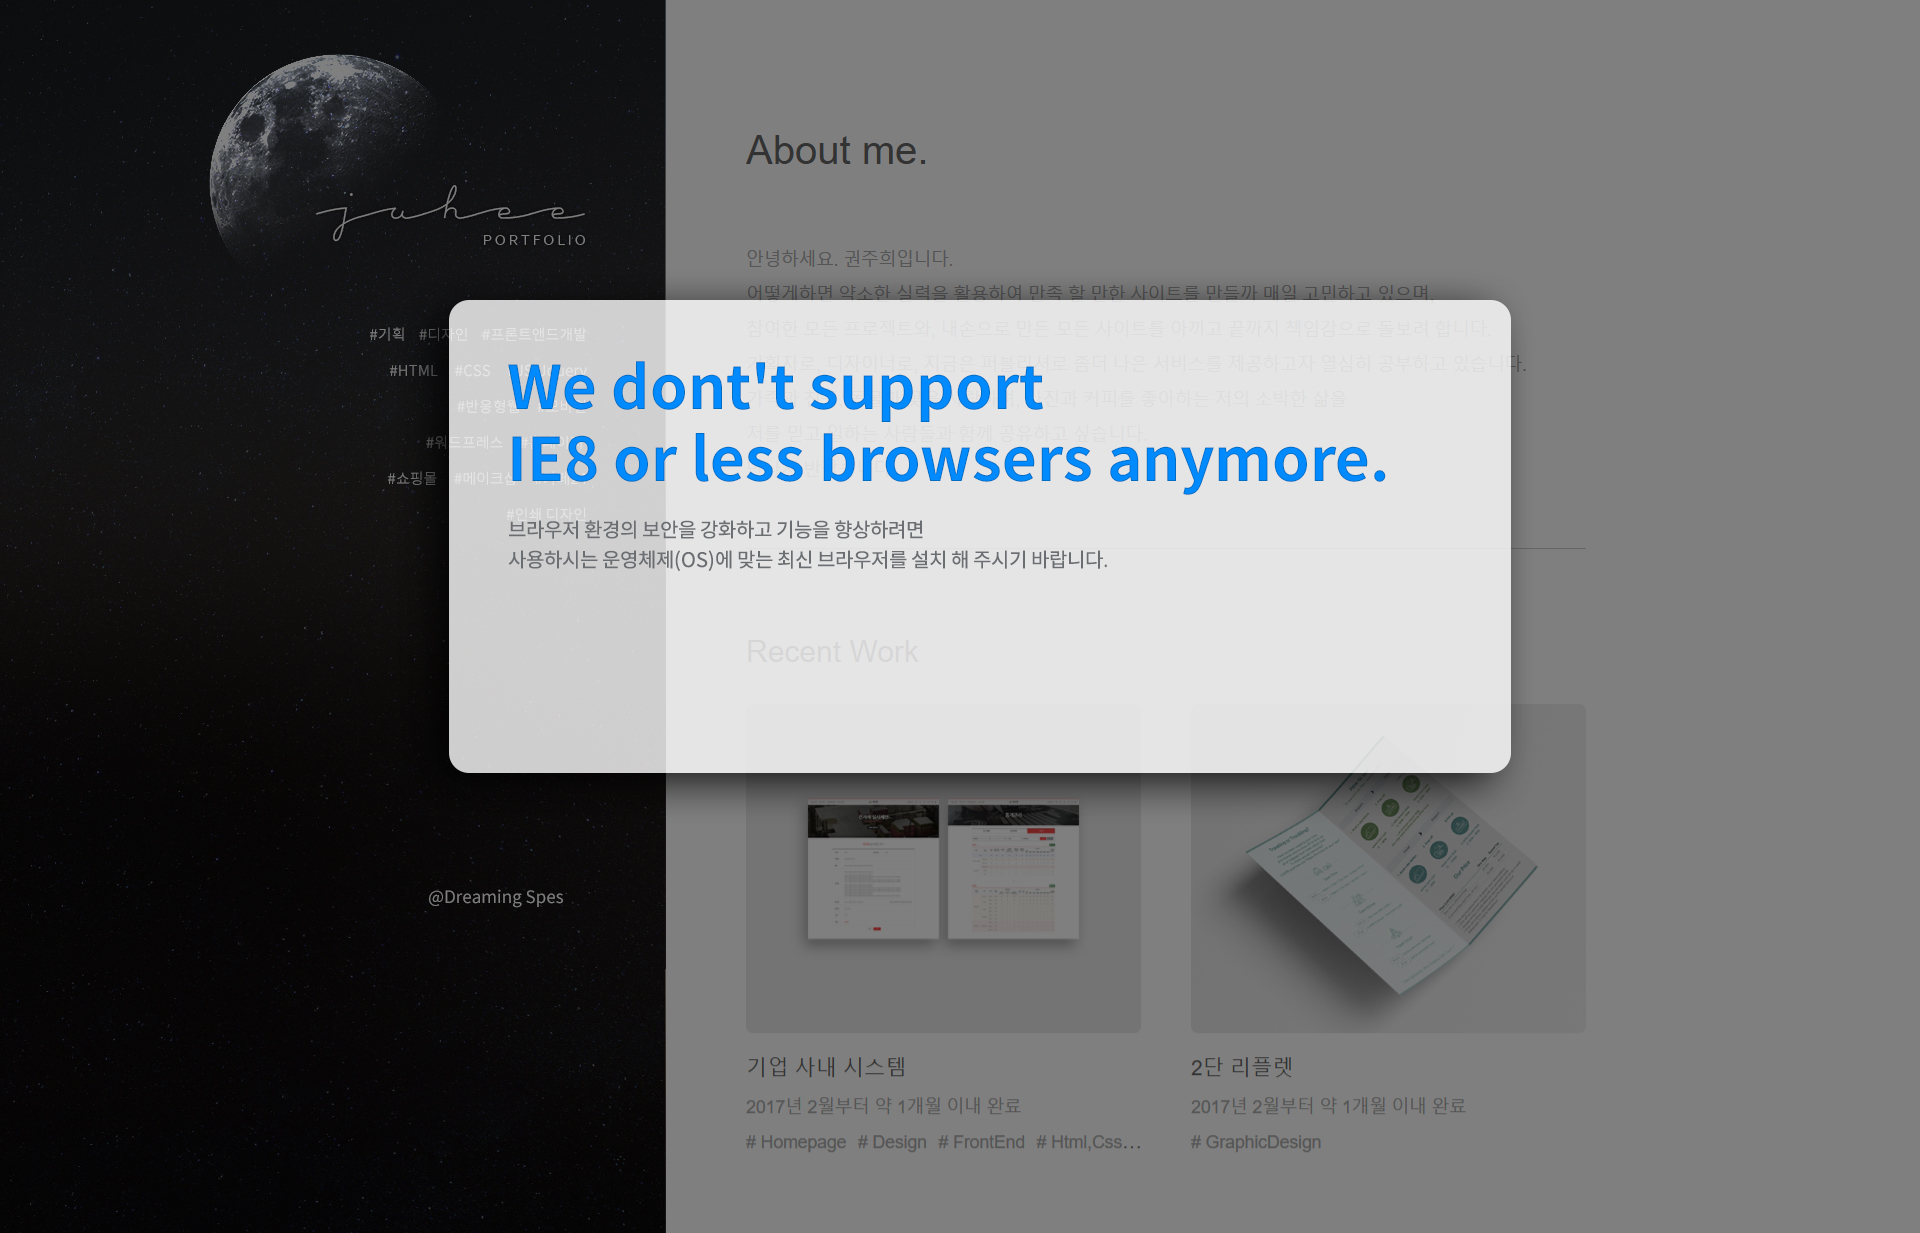
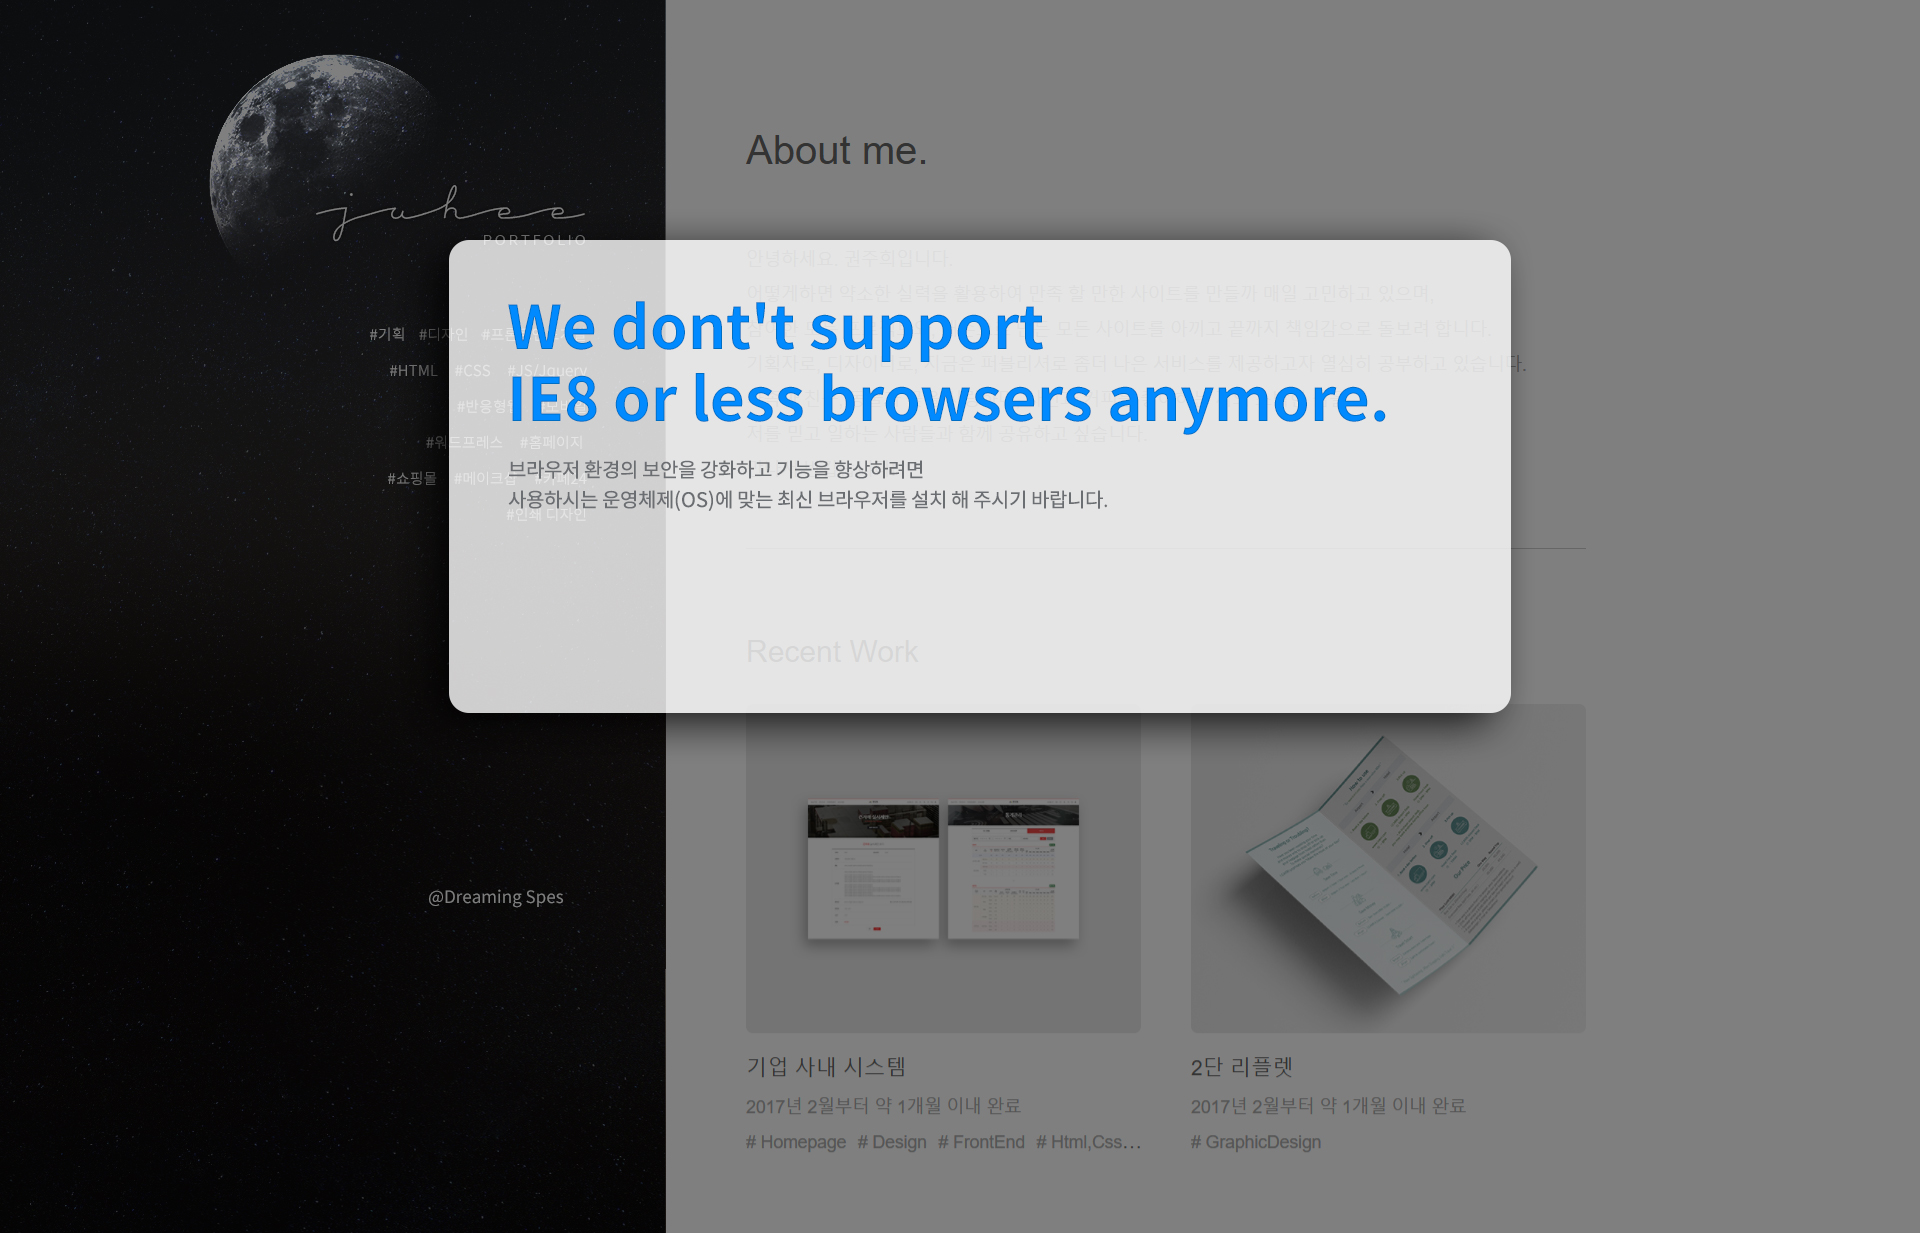
no message

Changed region(s): [[0.2188, 0.1849, 0.8125, 0.4623], [0.2188, 0.5547, 0.8125, 0.6472]]

diff --git a/ie8.html b/ie8.html
@@ -3,8 +3,8 @@
 	<body class="ie_8" style="position:absolute; display:block; top:0; margin:0; width:100%; height:100%;">
 		<div style="position:relative; display:table; width:100%; height:auto;">
 			<img src="images/ie8_bg.jpg" style="display:block; margin:0; width:100%; height:auto; border:0;">
-			<a href="https://www.google.co.kr/chrome/browser/desktop/" style="position:absolute; top:55.5%; right:24%; padding:0; display:inline-block; width:20%; height:auto;"><img src="images/btn_chrome.png" alt="크롬 최신버전 다운로드" style="display:block; width:100%; height:auto; border:0; border:0;"></a>
-			<a href="http://blog.naver.com/triphos_0605/221006878355" style="position:absolute; top:55.5%; right:45%; padding:0; display:inline-block; width:20%; height:auto;"><img src="images/btn_ie.png" alt="익스플로러 최신버전 다운로드" style="display:block; width:100%; height:auto; border:0;"></a>
+			<a href="https://www.google.co.kr/chrome/browser/desktop/" style="position:absolute; top:48.5%; right:24%; padding:0; display:inline-block; width:20%; height:auto;"><img src="images/btn_chrome.png" alt="크롬 최신버전 다운로드" style="display:block; width:100%; height:auto; border:0; border:0;"></a>
+			<a href="http://blog.naver.com/triphos_0605/221006878355" style="position:absolute; top:48.5%; right:45%; padding:0; display:inline-block; width:20%; height:auto;"><img src="images/btn_ie.png" alt="익스플로러 최신버전 다운로드" style="display:block; width:100%; height:auto; border:0;"></a>
 		</div>
 	</body>
 </html>

diff --git a/_includes/head.html b/_includes/head.html
@@ -23,7 +23,7 @@
 
 		<!--[if lte IE 8]>
 		<script type="text/javascript">
-			window.location = "ie8.php";
+			window.location = "ie8.html";
 		</script>
 		<![endif]-->
 
